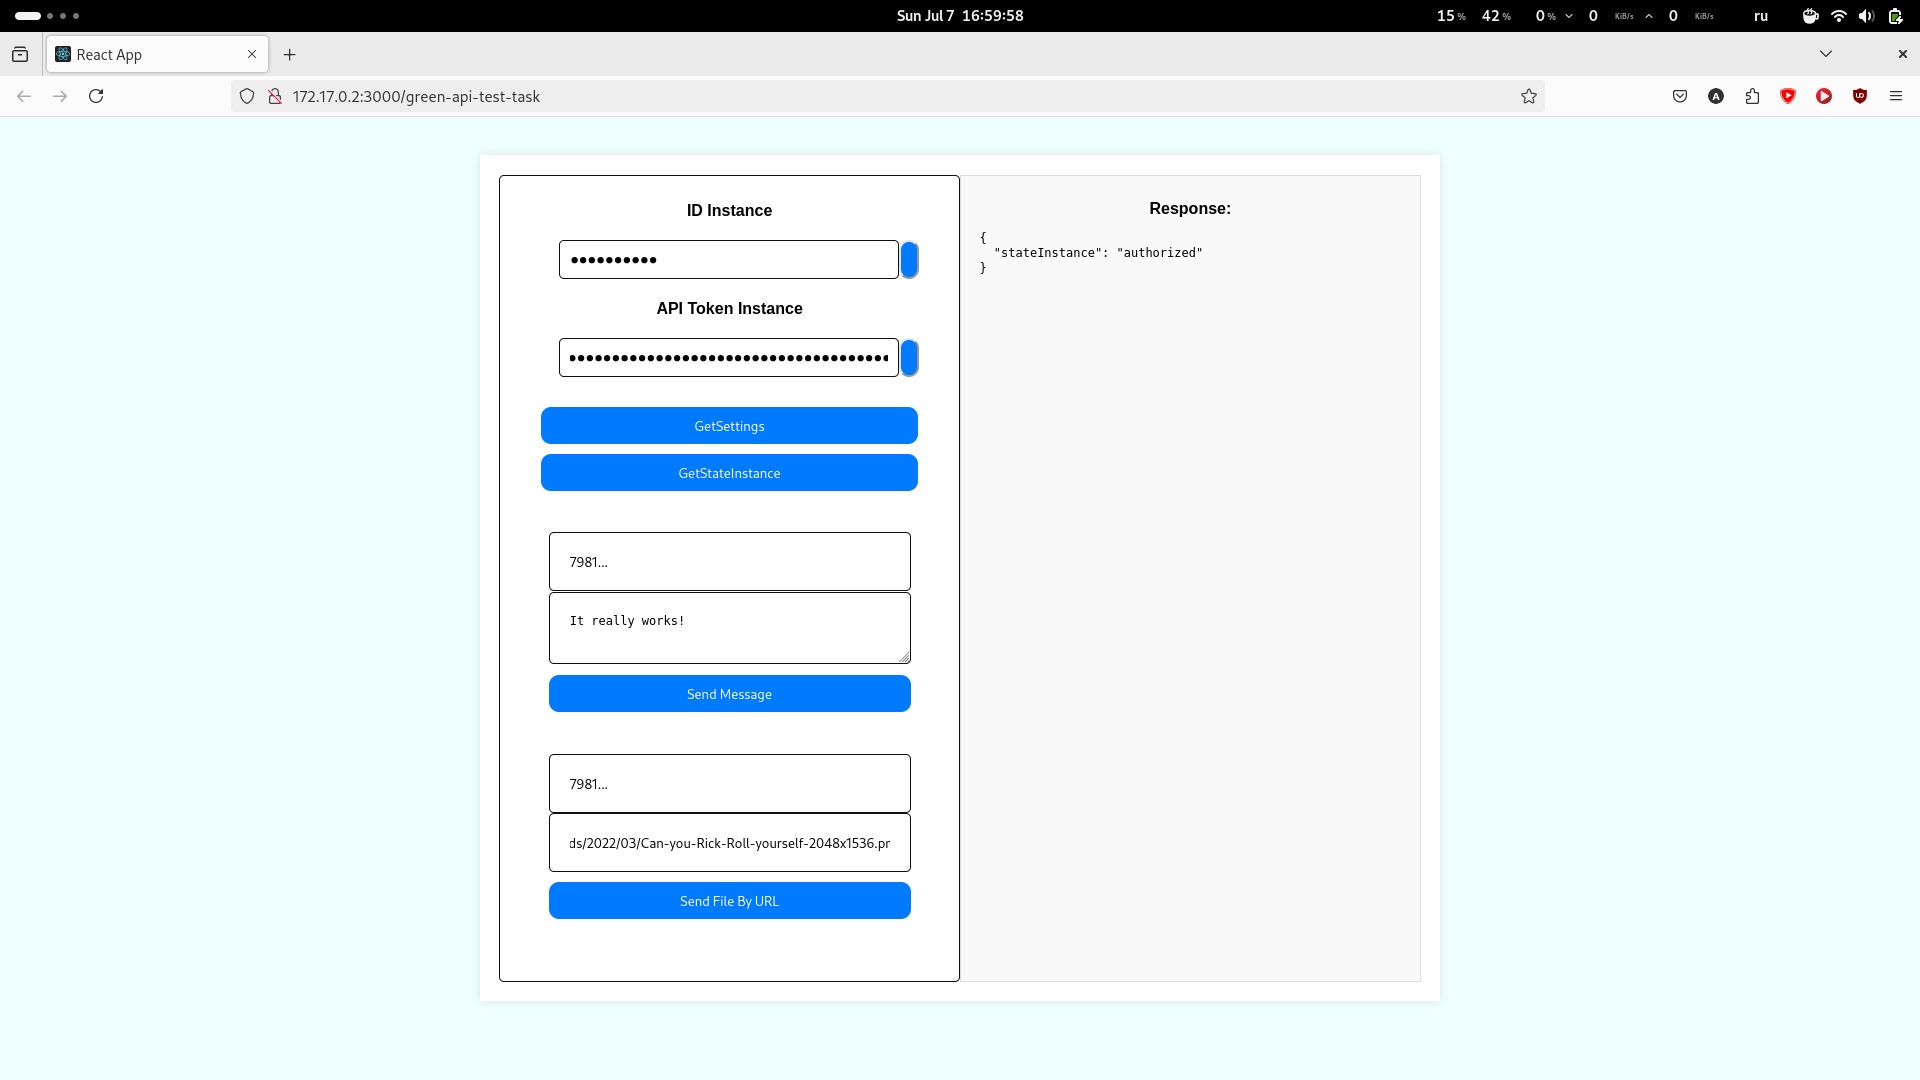
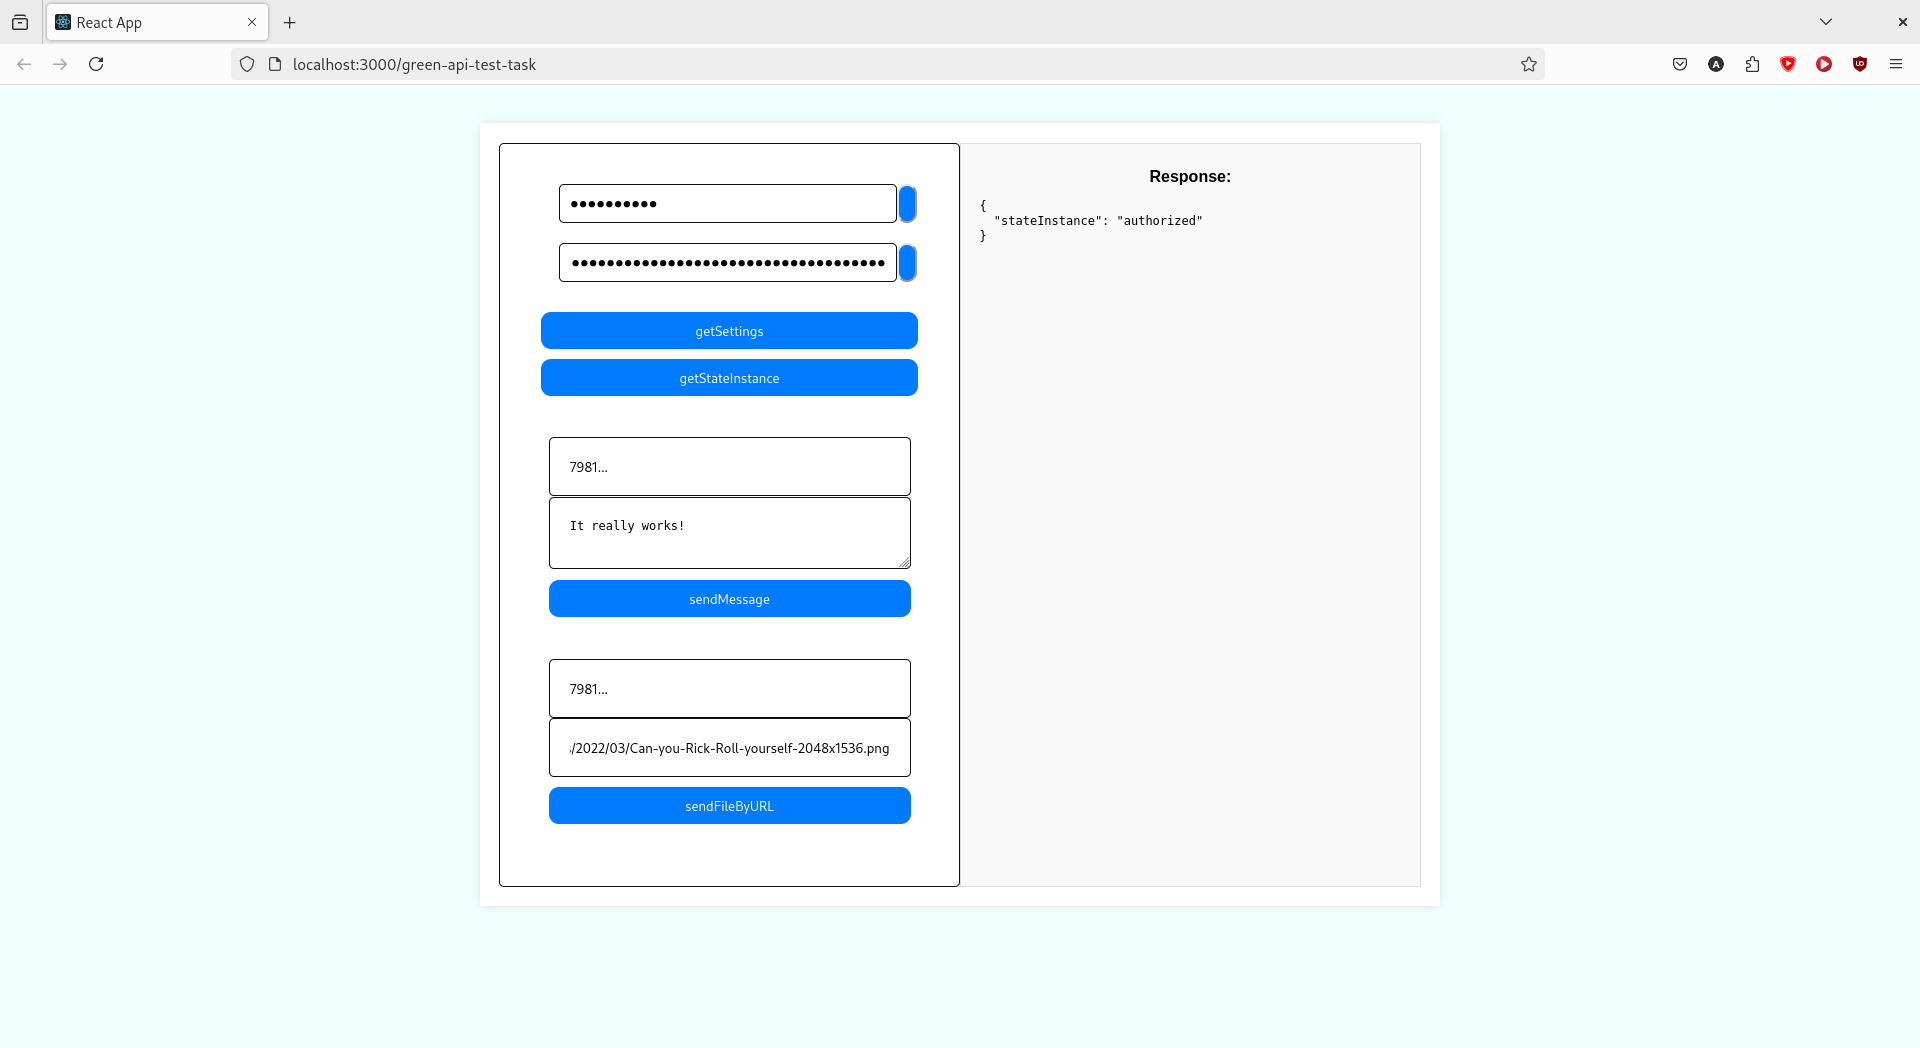
Some cosmetic improvements and new preview

diff --git a/src/js/InputPanel.js b/src/js/InputPanel.js
@@ -2,7 +2,6 @@ import React from "react";
 
 import { getSettingsRequest, getStateInstanceRequest, sendFileByURL, sendMessage } from './Api'
 
-import { Label } from "./Label";
 import { Button } from "./Button";
 import { ProtectedField } from "./ProtectedField";
 import { SendMessage } from './SendMessage';
@@ -85,12 +84,10 @@ export class InputPanel extends React.Component {
     render() {
         return (
             <div className="InputPanel">
-                <Label text="ID Instance" />
-                <ProtectedField id="idInstanceChange" onChange={this.handleIdInstanceChange} />
-                <Label text="API Token Instance" />
-                <ProtectedField id="apiTokenInstanceChange" onChange={this.handleApiTokenInstanceChange} />
-                <Button text="GetSettings" onClick={this.handleGetSettingsClick} />
-                <Button text="GetStateInstance" onClick={this.handleGetStateInstanceClick} />
+                <ProtectedField placeholder="idInstance" id="idInstanceChange" onChange={this.handleIdInstanceChange} />
+                <ProtectedField placeholder="ApiTokenInstance" id="apiTokenInstanceChange" onChange={this.handleApiTokenInstanceChange} />
+                <Button text="getSettings" onClick={this.handleGetSettingsClick} />
+                <Button text="getStateInstance" onClick={this.handleGetStateInstanceClick} />
                 <SendMessage onPhoneNumberChange={this.handlePhoneMessageChange} onMessageTextChange={this.handleMessadeTextChange} onClick={this.handleSendMessageClick} />
                 <SendFileByURL onPhoneNumberChange={this.handlePhoneFileChange} onFileURLChange={this.handleFileURLChange} onClick={this.handleSendFileByURLClick} />
             </div>

diff --git a/src/js/ProtectedField.js b/src/js/ProtectedField.js
@@ -29,7 +29,7 @@ export class ProtectedField extends React.Component {
     render() {
         return (
             <div className="ProtectedFieldPair">
-                <input className="ProtectedField" id={this.props.id} type={this.state.showContent ? "text": "password"} value={this.state.content} onChange={this.handleChange}></input>
+                <input placeholder={this.props.placeholder} className="ProtectedField" id={this.props.id} type={this.state.showContent ? "text": "password"} value={this.state.content} onChange={this.handleChange}></input>
                 <button className="ProtectedFieldButton" onClick={this.handleButtonClick}/>
             </div>
         );

diff --git a/src/js/SendFileByURL.js b/src/js/SendFileByURL.js
@@ -34,7 +34,7 @@ export class SendFileByURL extends React.Component {
             <div className="SendFileByURL">
                 <input type="text" placeholder="Phone Number (Only Digits)" onChange={this.handlePhoneNumberCharge} />
                 <input type="text" placeholder="https://mysite.com/img/horse.png" onChange={this.handleFileURLChange} />
-                <Button text="Send File By URL" onClick={this.props.onClick}/>
+                <Button text="sendFileByURL" onClick={this.props.onClick}/>
             </div>
         );
     }

diff --git a/src/js/SendMessage.js b/src/js/SendMessage.js
@@ -34,7 +34,7 @@ export class SendMessage extends React.Component {
             <div className="SendMessage">
                 <input type="text" placeholder="Phone Number (Only Digits)" onChange={this.handlePhoneNumberChange} />
                 <textarea placeholder="Type message text here." onChange={this.handleMessageTextChange}></textarea>
-                <Button text="Send Message" onClick={this.props.onClick}/>
+                <Button text="sendMessage" onClick={this.props.onClick}/>
             </div>
         );
     }

diff --git a/src/css/ProtectedField.css b/src/css/ProtectedField.css
@@ -7,6 +7,7 @@
 }
 
 .ProtectedFieldPair {
+    width: 90%;
     display: flex;
     justify-content: space-between;
     margin: 20px
